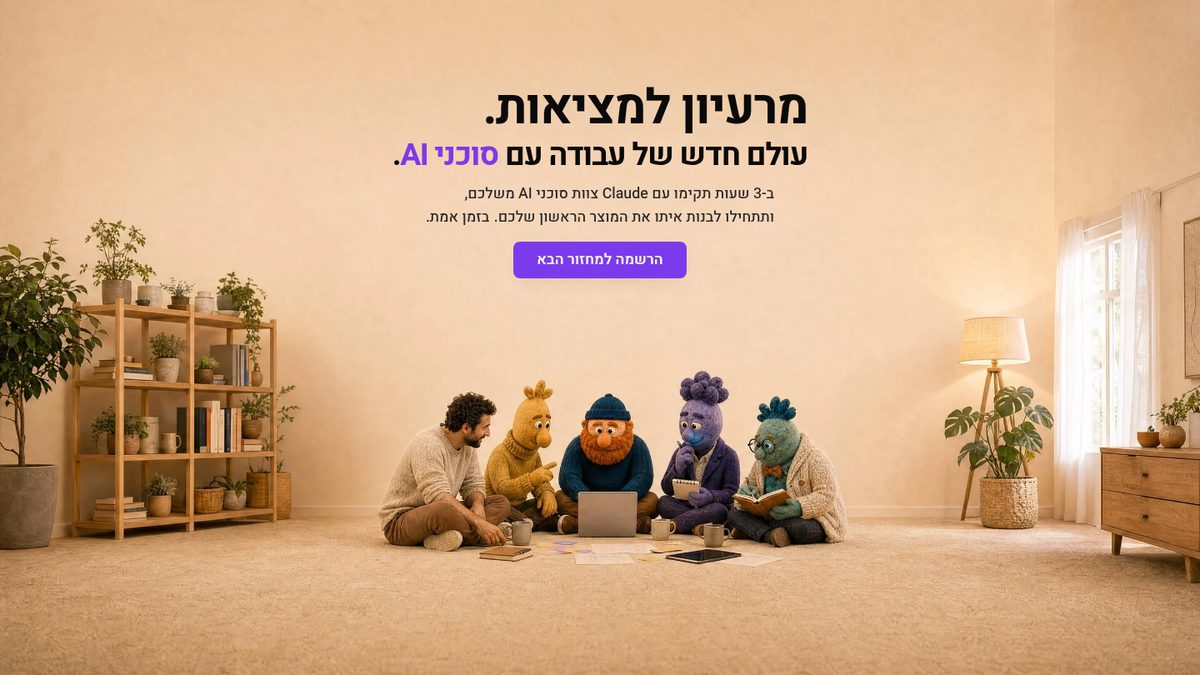
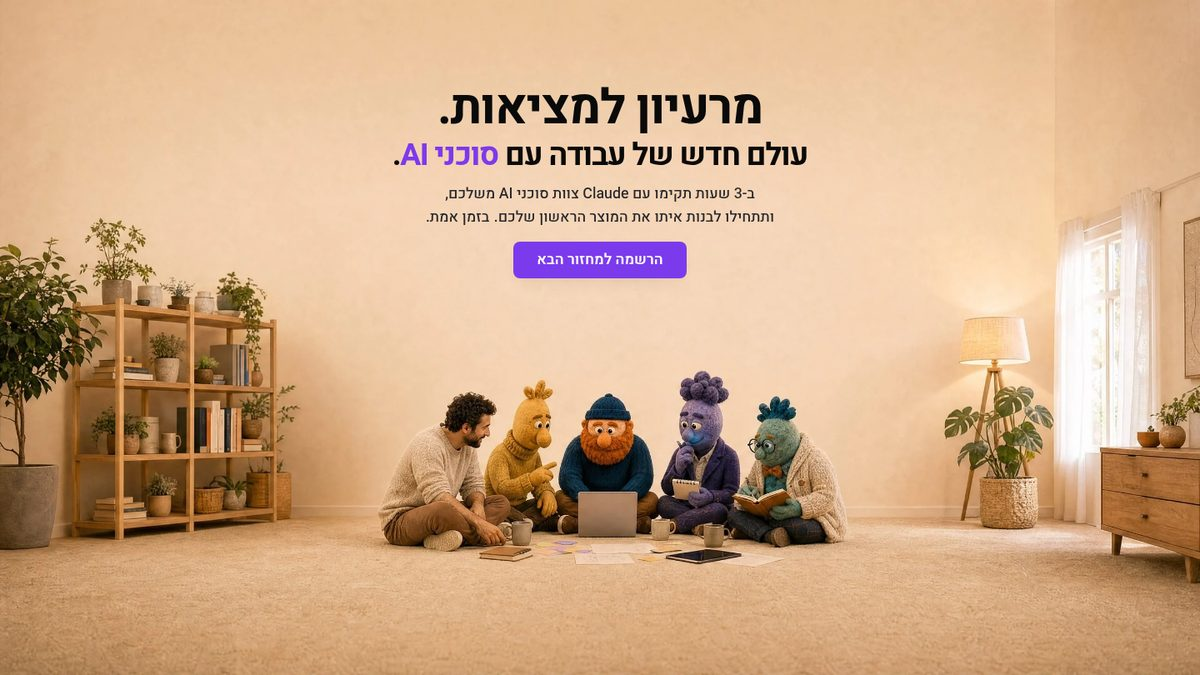
proof screenshot retaken post-centering-fix; horizon tile swapped for the wide reshoot
- assets/thispage-2.jpg regenerated from the current build, so the 'this page'
  proof card no longer shows the right-aligned Hebrew hero (v=2)
- who-horizon.webp replaced with the Marketing Designer's 1536x1024 reshoot
  (branch commit ecaf744): composed for the tile's real ~1.5:1 cover-crop, so
  nobody's head is cut; masters + gen_people_wide.py + CAST.md update included
- tile srcs bumped to v=2, app.js to 20260820b

Changed region(s): [[0.37, 0.1244, 0.6783, 0.1867], [0.37, 0.28, 0.6475, 0.3111]]

diff --git a/app.js b/app.js
@@ -1049,7 +1049,7 @@ function render(lang) {
     </div>
     <div class="proof" style="margin-top:2rem">
       <div class="proof__block reveal">
-        <div class="proof__shot"><img src="assets/thispage-2.jpg?v=1" alt="" /></div>
+        <div class="proof__shot"><img src="assets/thispage-2.jpg?v=2" alt="" /></div>
         <div class="proof__body">
           <h3>${t.proof_self_t}</h3><p>${t.proof_self_b}</p>
         </div>
